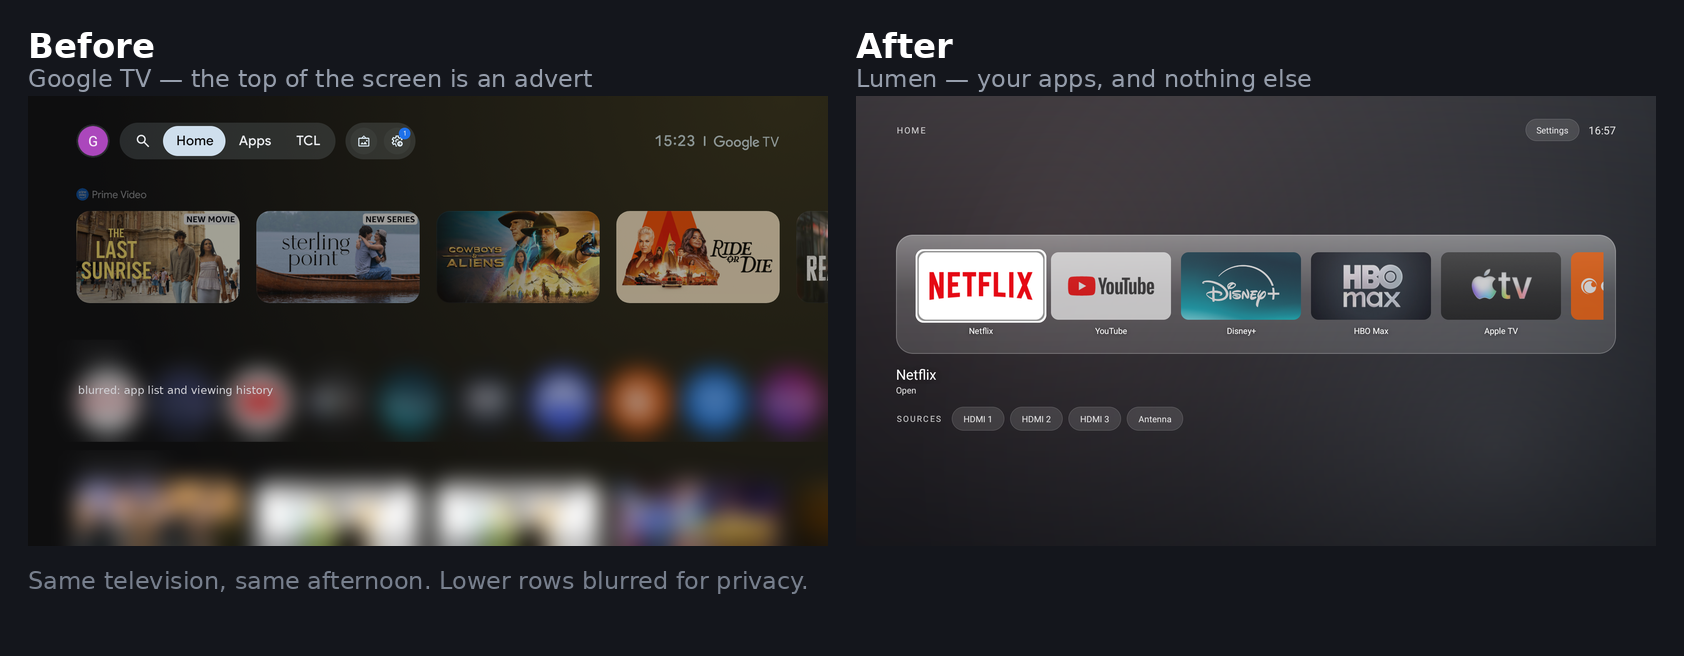
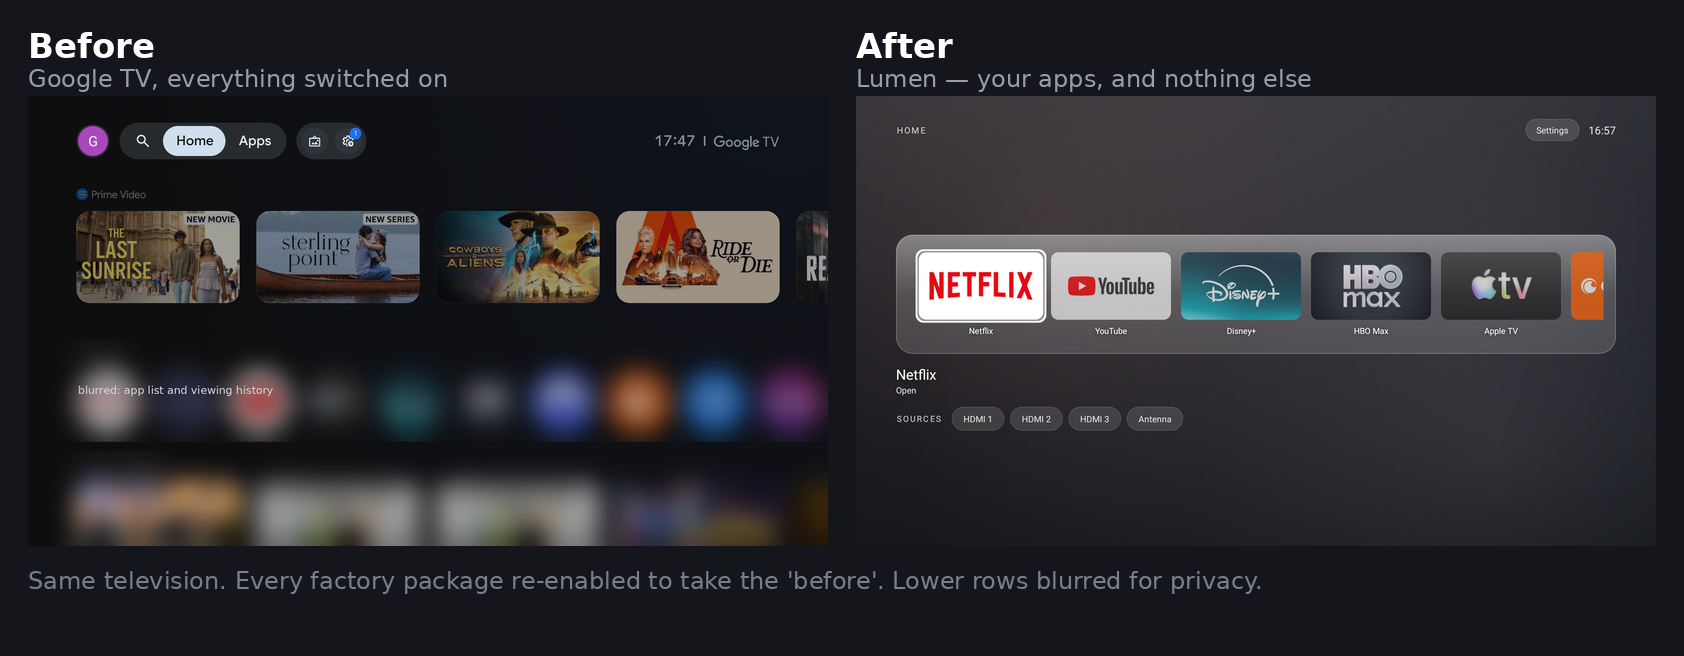
Replace the before shot with a genuine capture, and correct a claim I could not support
Every factory package was re-enabled, the TV rebooted, and the home screen
captured with everything running - then switched back off. The previous
'before' was taken partway through the debloat.

The test also disproved the caveat that was in the README: re-enabling TCL's
advertising packages did not change the Home tab at all, only adding a 'TCL'
tab to the header. The promotional rows are Google TV's own, which is why
debloating alone does not remove them.

diff --git a/README.md b/README.md
@@ -17,12 +17,14 @@ Your apps, your inputs, and nothing else.
 
 <table>
 <tr>
-<td width="50%"><img src="screenshots/00-before.png" alt="Google TV home screen with a full-width Prime Video advert across the top"><br><sub><b>Before.</b> The first thing on the home screen is an advert for something you don't own. Your own apps are the small circles underneath it. The two lower rows are blurred here — they were a list of installed apps and a viewing history, and neither belongs in a public README.</sub></td>
+<td width="50%"><img src="screenshots/00-before.png" alt="Google TV home screen with a full-width Prime Video advert across the top"><br><sub><b>Before.</b> The first thing on the home screen is an advert for something you don't own. Your own apps are the small circles underneath. The two lower rows are blurred here — an installed-app list and a viewing history, neither of which belongs in a public README.</sub></td>
 <td width="50%"><img src="screenshots/01-home.png" alt="Lumen home screen: one row of large app tiles on a dark frosted shelf"><br><sub><b>After.</b> Your apps, at the size you can actually see from a sofa, with the HDMI inputs one press below. Nothing else.</sub></td>
 </tr>
 </table>
 
-**One caveat, so the comparison is honest:** the "before" was taken partway through, after the TCL advertising packages were already switched off. What you're seeing is Google TV's *own* promotional machinery — which is the part a launcher swap fixes, and the reason a launcher swap is worth doing at all. A completely untouched set has more rows than this, not fewer.
+**This is a real capture, not a mock-up.** To take it, every factory package listed in this repo was switched back on, the television rebooted, and the home screen photographed with everything running. Then it all went off again. Same set, same evening.
+
+Worth knowing what that test showed: re-enabling TCL's own advertising packages **did not change the Home tab at all** — it only restored an extra "TCL" tab in the header. The promotional rows above your apps are Google TV's, not the manufacturer's. Which means debloating alone will not get rid of them. That is the entire reason the launcher exists.
 
 ---
 
